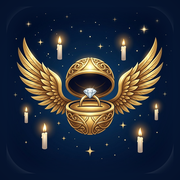
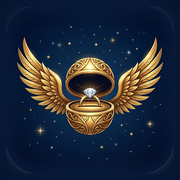
Puntos sorpresa para invitados e icono nuevo de la snitch
- La pagina de invitados ya no muestra puntos, valores ni topes: solo
  cuantas fotos y videos llevan y una barrita de avance del reto.
- Las repetidas se cuentan aparte en el resumen de la cola.
- Favicon e icono de pantalla de inicio con la snitch sin velas.

Claude-Session: https://claude.ai/code/session_01NFKpppQQcVQvaGeEVbsH1Z

diff --git a/index.html b/index.html
@@ -67,7 +67,7 @@
   .v-foto{background:rgba(94,154,119,.16);color:#8FD0A8;border:1px solid rgba(94,154,119,.3)}
   .v-video{background:rgba(139,58,78,.2);color:#E0909F;border:1px solid rgba(139,58,78,.38)}
 
-  /* progreso hacia el tope */
+  /* barrita de avance del reto */
   .avance{margin:2px 0 16px}
   .avance-texto{display:flex;justify-content:space-between;font-size:12.5px;color:var(--crema-sutil);margin-bottom:6px}
   .avance-texto b{color:var(--oro-claro);font-weight:600}
@@ -109,7 +109,6 @@
   .pieza.espera .sello{background:rgba(20,15,26,.72);color:var(--crema-sutil)}
   .pieza.subiendo .sello{background:rgba(201,161,74,.85);color:#241A09}
   .pieza.listo .sello{background:rgba(94,154,119,.9);color:#0E1A12}
-  .pieza.tope .sello{background:rgba(20,15,26,.8);color:var(--oro-claro)}
   .pieza.dup .sello,.pieza.error .sello{background:rgba(139,58,78,.92);color:#FBE3E8}
   .pieza.subiendo::after{content:'';position:absolute;inset:0;background:linear-gradient(110deg,transparent 30%,rgba(255,255,255,.14) 50%,transparent 70%);animation:brillo 1.1s linear infinite}
   @keyframes brillo{from{transform:translateX(-100%)}to{transform:translateX(100%)}}
@@ -143,8 +142,8 @@
     <div class="carta">
       <p class="cintillo">Cómo funciona</p>
       <p class="tenue" style="margin:0 0 18px">
-        Te damos un reto según el momento de la boda. Súbele todas las fotos y videos que quieras:
-        cada foto vale 1 punto y cada video 2. Al final de la noche, quien junte más puntos gana.
+        Te damos un reto según el momento de la boda. Súbele todas las fotos y videos que quieras,
+        y cuando lo termines, te llega otro. Al final de la noche revelamos quién ganó.
       </p>
       <input type="text" id="campo-nombre" placeholder="Tu nombre y apellido" autocomplete="name" autocapitalize="words" maxlength="60">
       <button class="primario" id="boton-entrar">Empezar</button>
@@ -170,8 +169,7 @@
     </div>
 
     <div class="marcador">
-      <div class="casilla"><div class="cifra" id="cifra-puntos">0</div><div class="pie">Puntos</div></div>
-      <div class="casilla"><div class="cifra" id="cifra-archivos">0</div><div class="pie">Archivos</div></div>
+      <div class="casilla"><div class="cifra" id="cifra-archivos">0</div><div class="pie">Fotos y videos que has subido</div></div>
     </div>
 
     <!-- reto del momento -->
@@ -179,14 +177,10 @@
       <p class="cintillo">Tu reto de este momento</p>
       <h2 class="reto-titulo" id="reto-titulo"></h2>
       <p class="reto-desc" id="reto-desc"></p>
-      <div class="valores">
-        <span class="valor v-foto" id="valor-foto">Foto · 1 pt</span>
-        <span class="valor v-video" id="valor-video">Video · 2 pts</span>
-      </div>
       <div class="avance">
-        <div class="avance-texto"><span>En este reto</span><span><b id="reto-pts">0</b> de <span id="reto-tope">15</span> pts</span></div>
+        <div class="avance-texto"><span>Avance del reto</span><span id="reto-cuenta"></span></div>
         <div class="riel"><i id="reto-riel"></i></div>
-        <p class="lleno oculto" id="reto-lleno">¡Reto completo! Lo que subas aquí se guarda en el álbum, pero ya no suma. Pasa al siguiente.</p>
+        <p class="lleno oculto" id="reto-lleno">¡Reto cumplido! Lo que subas aquí se sigue guardando en el álbum. Pasa al siguiente para recibir un reto nuevo.</p>
       </div>
 
       <input type="file" id="archivos-reto" accept="image/*,video/*" multiple>
@@ -212,14 +206,9 @@
     <!-- fotos libres -->
     <div class="carta" id="caja-libres">
       <p class="cintillo">Fotos libres</p>
-      <p class="tenue" style="margin:0 0 14px">
-        ¿Pasó algo que no entra en el reto? Súbelo aquí también. Cuenta igual: 1 punto por foto y 2 por video.
+      <p class="tenue" style="margin:0 0 16px">
+        ¿Pasó algo que no entra en el reto? Súbelo aquí también. Todo cuenta.
       </p>
-      <div class="avance">
-        <div class="avance-texto"><span id="libre-etiqueta">En este momento</span><span><b id="libre-pts">0</b> de <span id="libre-tope">15</span> pts</span></div>
-        <div class="riel"><i id="libre-riel"></i></div>
-        <p class="lleno oculto" id="libre-lleno">Llegaste al máximo de este momento. Sigue subiendo: todo llega al álbum, y en el próximo momento vuelves a sumar.</p>
-      </div>
       <input type="file" id="archivos-libres" accept="image/*,video/*" multiple>
       <label for="archivos-libres" class="secundario boton">Subir fotos libres</label>
       <div class="cola" id="cola-libre"></div>
@@ -337,13 +326,9 @@ function pintar(){
   if (r.novios) document.title = 'Retos de Boda · ' + r.novios;
   $('saludo').textContent = 'Hola, ' + primerNombre(r.nombre);
   $('nombre-salir').textContent = primerNombre(r.nombre);
-  $('cifra-puntos').textContent = r.puntos;
   $('cifra-archivos').textContent = r.archivos;
   $('indicador-fase').textContent = r.fase ? ((r.fase.emoji ? r.fase.emoji + '  ' : '') + r.fase.nombre) : '✨  Aún no empieza';
 
-  var g = r.reglas || { puntosFoto: 1, puntosVideo: 2, topeReto: 15, topeLibres: 15 };
-  $('valor-foto').textContent = 'Foto · ' + g.puntosFoto + (g.puntosFoto === 1 ? ' pt' : ' pts');
-  $('valor-video').textContent = 'Video · ' + g.puntosVideo + (g.puntosVideo === 1 ? ' pt' : ' pts');
 
   if (r.premio){ $('texto-premio').textContent = r.premio; $('caja-premio').classList.remove('oculto'); }
   else $('caja-premio').classList.add('oculto');
@@ -358,23 +343,19 @@ function pintar(){
     $('caja-espera').classList.remove('oculto');
     $('texto-espera').textContent = r.mensaje || 'Ahorita no hay retos nuevos. Mientras, sigue con las fotos libres.';
   }
-  $('libre-etiqueta').textContent = r.fase ? 'En ' + r.fase.nombre.toLowerCase() : 'En este momento';
 
   pintarAvance();
   pintarBotones();
   pintarCola();
 }
 
+// Solo una barrita: cuánto le falta al reto, sin cifras de puntos
 function pintarAvance(){
-  var r = estado, g = r.reglas || {};
-  var tr = g.topeReto || 15, tl = g.topeLibres || 15;
-  var pr = r.retoPuntos || 0, pl = r.librePuntos || 0;
-  $('reto-pts').textContent = Math.min(pr, tr);  $('reto-tope').textContent = tr;
-  $('libre-pts').textContent = Math.min(pl, tl); $('libre-tope').textContent = tl;
-  $('reto-riel').style.width = Math.min(100, pr / tr * 100) + '%';
-  $('libre-riel').style.width = Math.min(100, pl / tl * 100) + '%';
-  $('reto-lleno').classList.toggle('oculto', pr < tr);
-  $('libre-lleno').classList.toggle('oculto', pl < tl);
+  var r = estado;
+  var n = r.retoArchivos || 0;
+  $('reto-cuenta').textContent = n ? (n + (n === 1 ? ' subida' : ' subidas')) : '';
+  $('reto-riel').style.width = Math.round(Math.min(1, r.retoAvance || 0) * 100) + '%';
+  $('reto-lleno').classList.toggle('oculto', !r.retoCompleto);
 }
 
 function pintarBotones(){
@@ -435,7 +416,7 @@ async function procesar(){
 }
 
 async function subirUno(it){
-  var g = estado.reglas || { maxFotoMB: 12, maxVideoMB: 15 };
+  var g = estado.limites || { maxFotoMB: 12, maxVideoMB: 15 };
   var f = it.archivo;
   if (it.esVideo && f.size > g.maxVideoMB * 1048576){
     it.estado = 'error'; it.nota = 'Muy pesado';
@@ -470,13 +451,16 @@ async function subirUno(it){
       }
       if (r.duplicado){ it.estado = 'dup'; it.nota = 'Repetida'; return; }
 
-      it.estado = r.puntosOtorgados > 0 ? 'listo' : 'tope';
-      it.nota = r.puntosOtorgados > 0 ? '+' + r.puntosOtorgados : 'Guardada';
-      estado.puntos = r.puntos;
+      it.estado = 'listo';
+      it.nota = '✓ Lista';
       estado.archivos = r.archivos;
-      if ((r.destino || it.destino) === 'libre') estado.librePuntos = (estado.librePuntos || 0) + r.puntosOtorgados;
-      else { estado.retoPuntos = (estado.retoPuntos || 0) + r.puntosOtorgados; estado.retoArchivos = (estado.retoArchivos || 0) + 1; }
-      actualizarMarcador(r.puntosOtorgados);
+      var eraCompleto = !!estado.retoCompleto;
+      if ((r.destino || it.destino) === 'reto'){
+        estado.retoArchivos = (estado.retoArchivos || 0) + 1;
+        if (typeof r.avance === 'number') estado.retoAvance = r.avance;
+        estado.retoCompleto = !!r.completo;
+      }
+      actualizarMarcador(!eraCompleto && estado.retoCompleto);
       return;
     } catch (e){
       if (i === esperas.length - 1){ it.estado = 'error'; it.nota = 'Sin señal'; }
@@ -484,16 +468,13 @@ async function subirUno(it){
   }
 }
 
-function actualizarMarcador(ganados){
-  $('cifra-puntos').textContent = estado.puntos;
-  $('cifra-archivos').textContent = estado.archivos;
+function actualizarMarcador(retoRecienCumplido){
+  var c = $('cifra-archivos');
+  c.textContent = estado.archivos;
+  c.classList.add('salta');
+  setTimeout(function(){ c.classList.remove('salta'); }, 260);
   pintarAvance();
-  if (ganados > 0){
-    var c = $('cifra-puntos');
-    c.classList.add('salta');
-    setTimeout(function(){ c.classList.remove('salta'); }, 260);
-    brindis('+' + ganados + (ganados === 1 ? ' punto' : ' puntos'));
-  }
+  if (retoRecienCumplido) brindis('¡Reto cumplido! ✨');
 }
 
 function pintarCola(){
@@ -502,20 +483,23 @@ function pintarCola(){
     var piezas = cola.filter(function(it){ return it.destino === dest; });
     caja.innerHTML = piezas.map(function(it){
       var interior = it.vista ? '<img src="' + it.vista + '" alt="">' : '<div class="icono-video">▶</div>';
-      var sello = { espera: 'En fila', subiendo: 'Subiendo', listo: it.nota, tope: it.nota, dup: it.nota, error: it.nota }[it.estado] || '';
+      var sello = { espera: 'En fila', subiendo: 'Subiendo', listo: it.nota, dup: it.nota, error: it.nota }[it.estado] || '';
       var reintentar = it.estado === 'error' ? ' onclick="reintentar(' + it.id + ')"' : '';
       return '<div class="pieza ' + it.estado + '"' + reintentar + '>' + interior + '<span class="sello">' + sello + '</span></div>';
     }).join('');
 
     var resumen = $('resumen-' + dest);
     if (!piezas.length){ resumen.classList.add('oculto'); return; }
-    var hechas = piezas.filter(function(x){ return ['listo','tope','dup'].indexOf(x.estado) >= 0; }).length;
+    var listas = piezas.filter(function(x){ return x.estado === 'listo'; }).length;
+    var repetidas = piezas.filter(function(x){ return x.estado === 'dup'; }).length;
     var fallas = piezas.filter(function(x){ return x.estado === 'error'; }).length;
-    var pendientes = piezas.length - hechas - fallas;
+    var pendientes = piezas.length - listas - repetidas - fallas;
     resumen.classList.remove('oculto');
     resumen.textContent = pendientes
-      ? 'Subiendo ' + (hechas + 1) + ' de ' + piezas.length + '… no cierres la página'
-      : (hechas + ' subida' + (hechas === 1 ? '' : 's') + (fallas ? ' · ' + fallas + ' con error (tócala para reintentar)' : ''));
+      ? 'Subiendo ' + (listas + repetidas + 1) + ' de ' + piezas.length + '… no cierres la página'
+      : (listas + ' subida' + (listas === 1 ? '' : 's') +
+         (repetidas ? ' · ' + repetidas + ' repetida' + (repetidas === 1 ? '' : 's') + ' (ya estaba en el álbum)' : '') +
+         (fallas ? ' · ' + fallas + ' con error (tócala para reintentar)' : ''));
   });
 }
 
